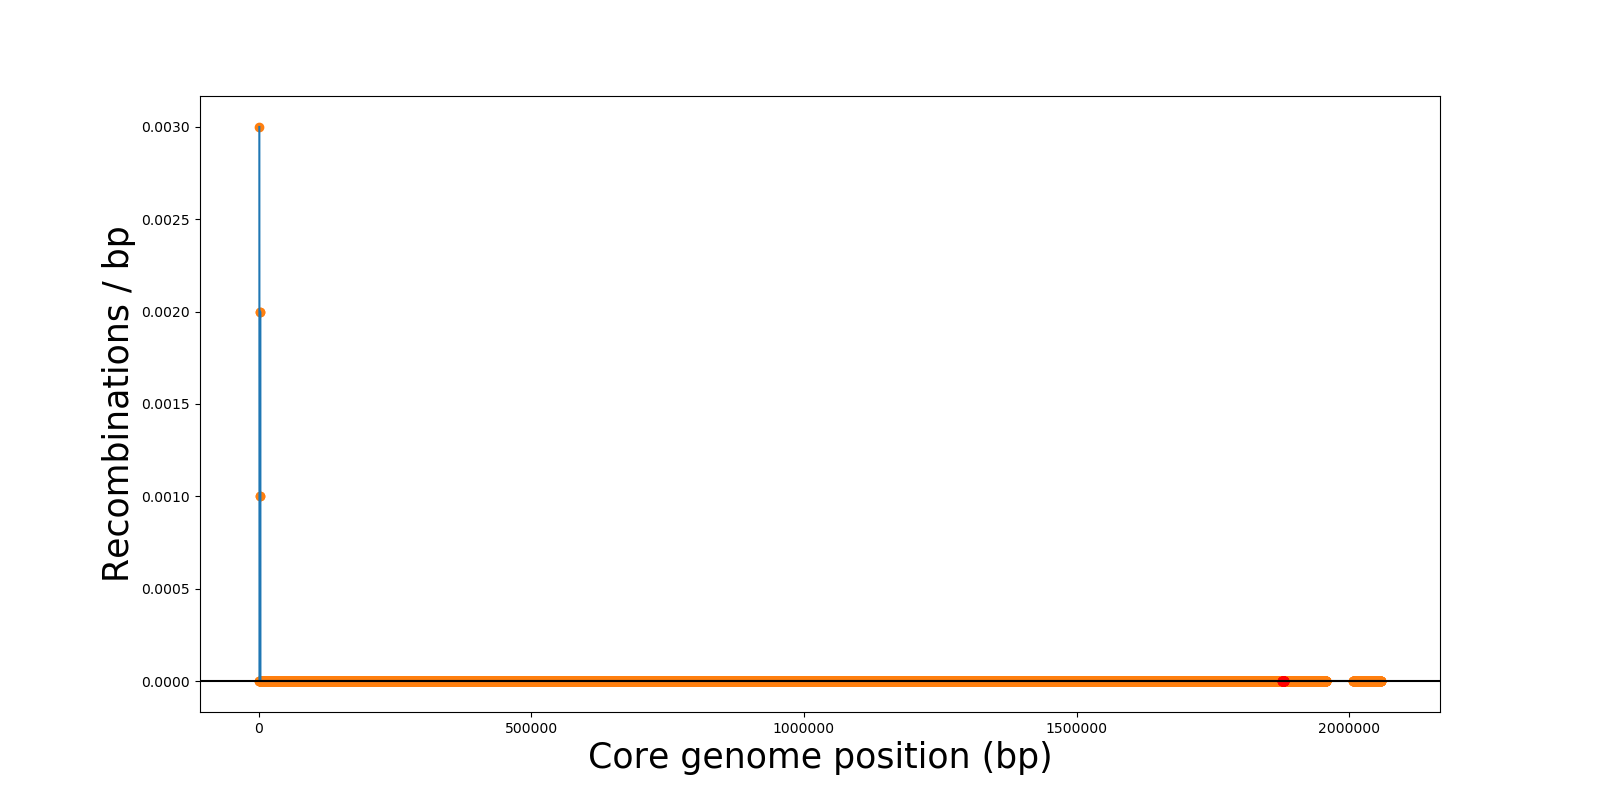
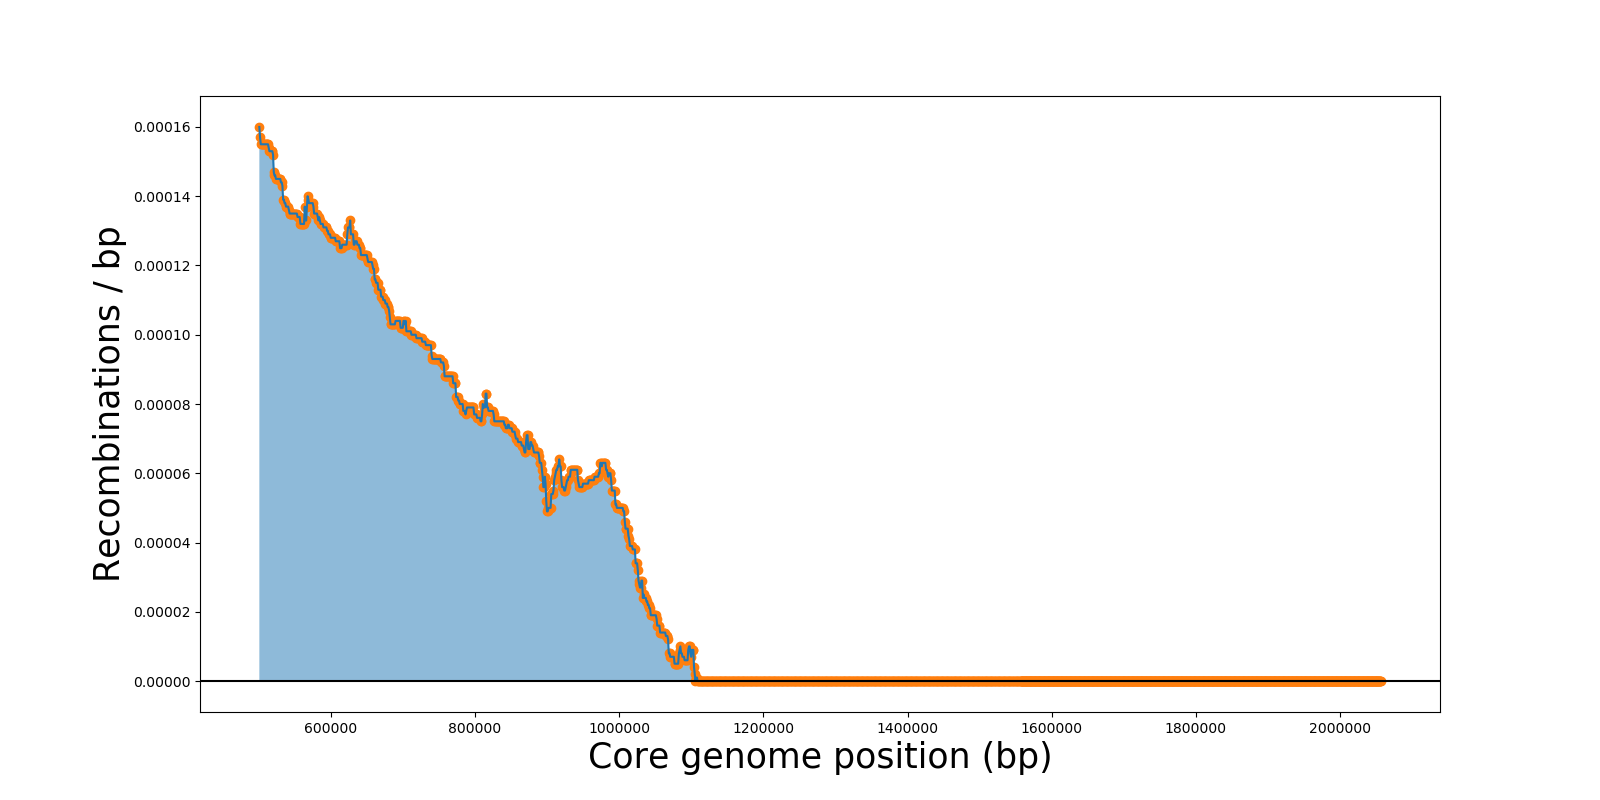
bugfix for recombination map

diff --git a/Scripts/return_high_recombination.py b/Scripts/return_high_recombination.py
@@ -152,15 +152,15 @@ class HighRecombination():
         # sp = LG.index.get_level_values("Reference genome end loc")
         core_sp_max = LG["Core genome end loc"].max()
         core_sp_min = LG["Core genome start loc"].min()
-        core_sp = np.arange(core_sp_min, core_sp_max, ws/10)
+        core_sp = np.arange(core_sp_min, core_sp_max, ws)
 
         # core_sp
         num_transfers = {}
         # print(core_sp_max)
         for i in range(len(core_sp)):
             if i + ws < len(core_sp):
-                n = ((LG["Core genome start loc"] >= core_sp[i])&(LG["Reference genome start loc"] < core_sp[int(i+10)])).sum()
-                num_transfers[(core_sp[int(i)],core_sp[int(i+10)])] = n
+                n = ((LG["Core genome start loc"] >= core_sp[i])&(LG["Reference genome start loc"] < core_sp[int(i+ws)])).sum()
+                num_transfers[(core_sp[int(i)],core_sp[int(i+ws)])] = n
             else:
                 n = ((LG["Core genome start loc"] >= core_sp[i])&(LG["Reference genome start loc"] < core_sp[-1])).sum()
                 num_transfers[(core_sp[int(i)], core_sp[-1])] = n
@@ -196,8 +196,11 @@ class HighRecombination():
                         where=transfer_rate > transfer_rate.quantile(percentile), alpha=.5)
 
         ax.scatter(midpoints, transfer_rate.values)
-        ax.scatter(midpoints[pass_positions], transfer_rate.values[pass_positions], color="red")
+        # ax.scatter(midpoints[pass_positions], transfer_rate.values[pass_positions], color="red")
         plt.savefig('../HighRecombinationAnalysis/' + species + '_recombination_map.png')
+        print(midpoints)
+        print(num_transfers.values)
+        print(transfer_rate.values)
         logger.info('Pipeline executed succesfully.')
 
 
